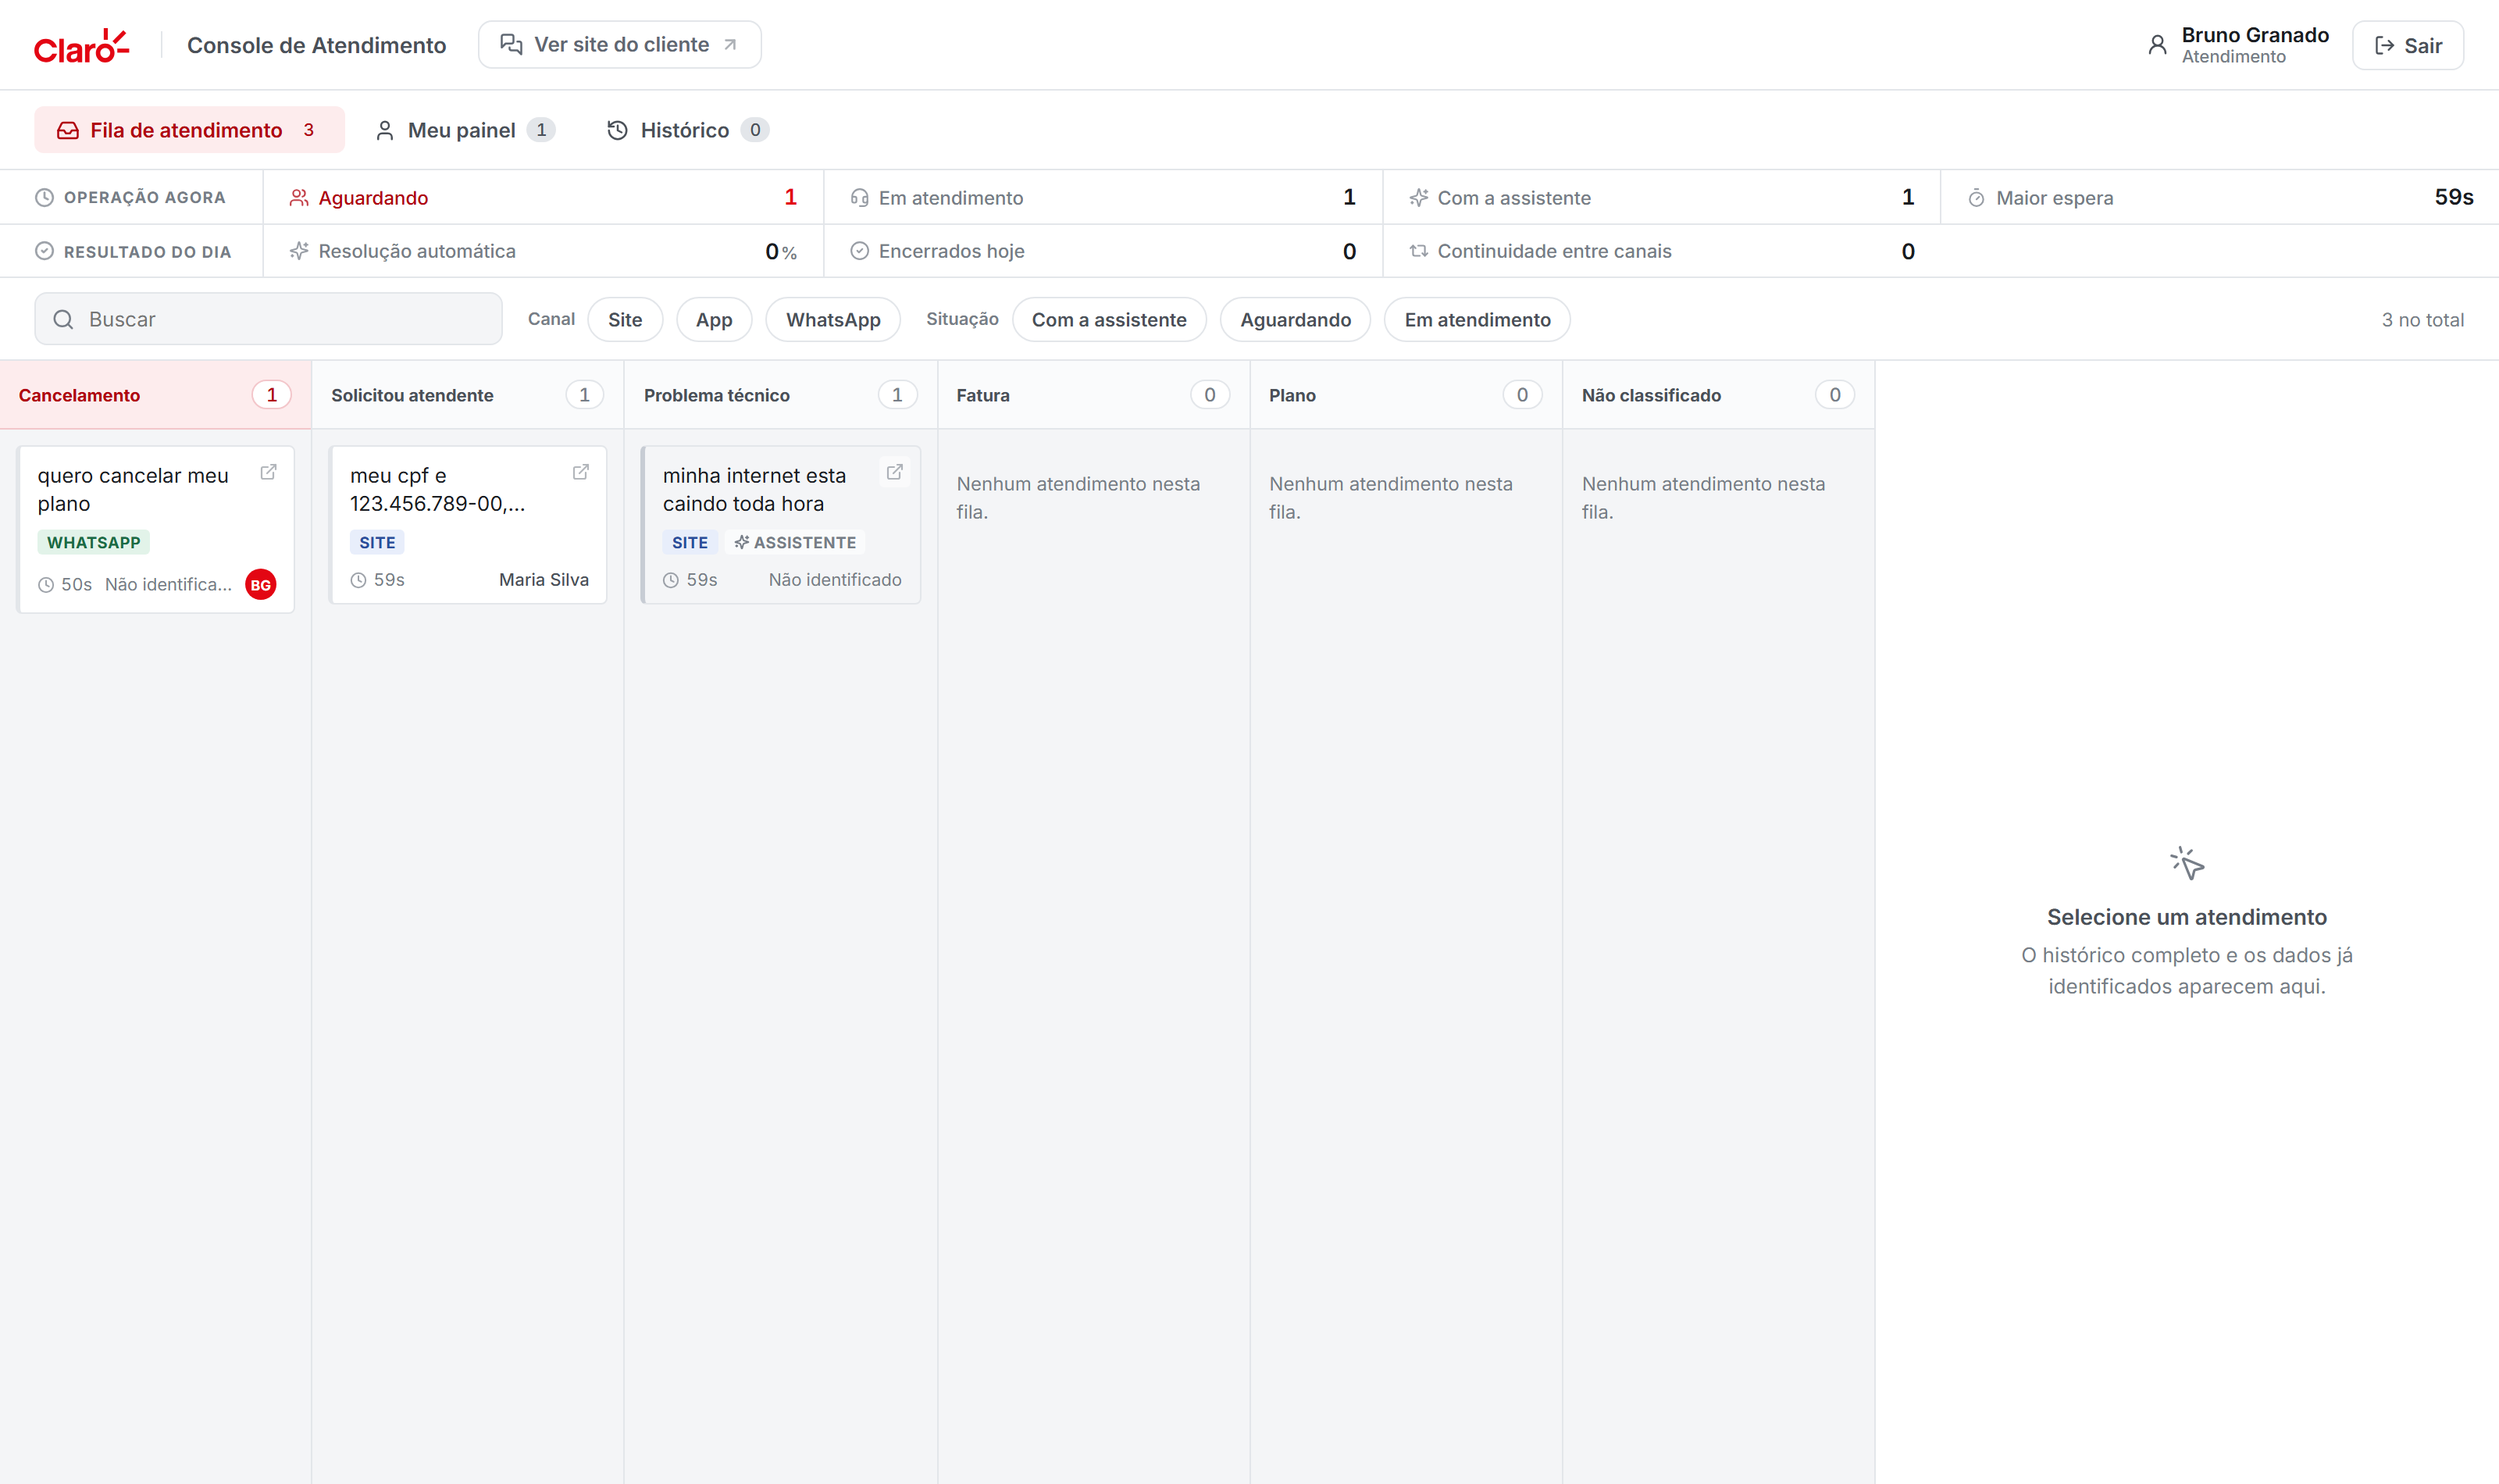
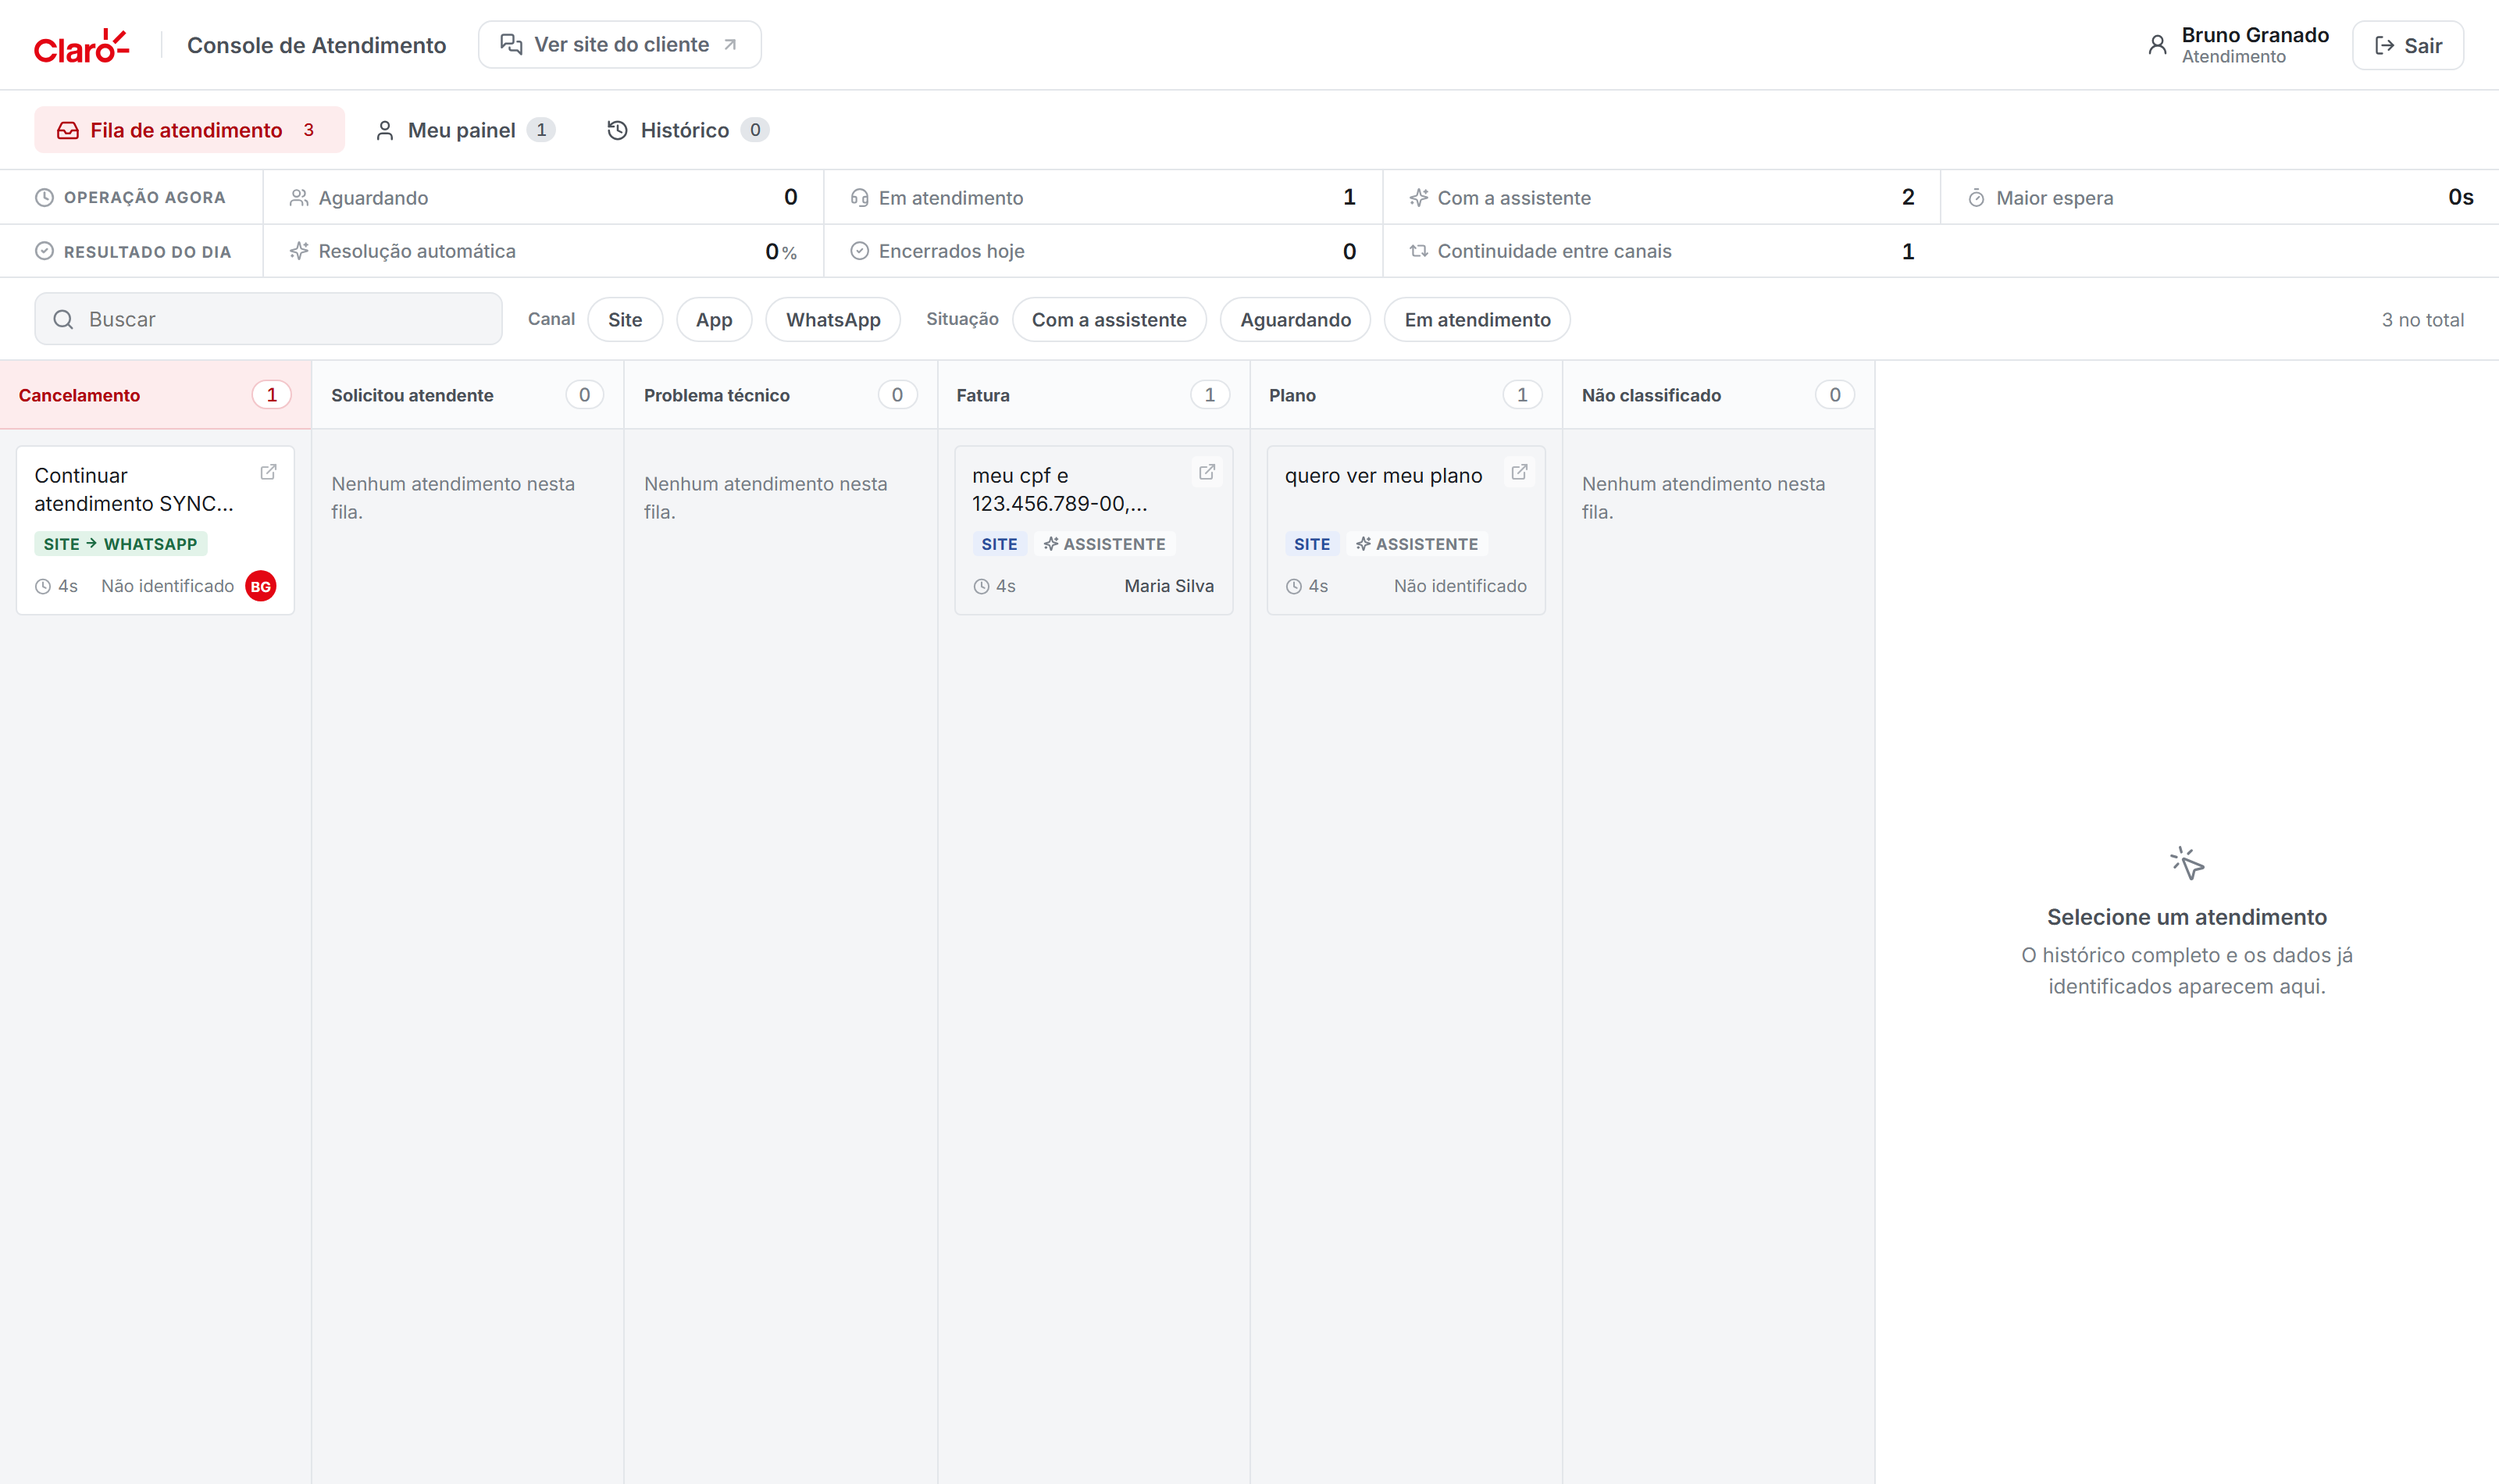
polish: flat white cards of equal height
- dropped the 3px left border and the wait bar that lived inside it. Urgency
  still reads on the card: the wait turns red and carries a clock.
- every card is white. State lives in the label, not the background; a
  different background per state made the board look like it held two
  different kinds of card.
- equal heights. The summary always occupies two lines even with one line of
  text, and the footer has a floor the height of the avatar disc. Cards of
  different heights in one column misalign every footer below them.
- channel and origin merged into one label, 'SITE → WHATSAPP'. Two channel
  labels wrapped to a second line and grew the card only in some cases.

And a content bug that only surfaced once the message became the title: the
handoff code is control text, not a request. After a channel switch every
card on the board read 'Continuar atendimento SYNC-…'. The queue now skips
it and takes the last real request.

diff --git a/apps/web-admin/src/screens/Board.tsx b/apps/web-admin/src/screens/Board.tsx
@@ -1,5 +1,5 @@
-import { Clock, ExternalLink, Sparkles } from 'lucide-react'
-import { CHANNEL_LABELS, formatWait, INTENT_COLUMNS, type QueueItem, waitHeat } from '../api.js'
+import { ArrowRight, Clock, ExternalLink, Sparkles } from 'lucide-react'
+import { CHANNEL_LABELS, formatWait, INTENT_COLUMNS, type QueueItem } from '../api.js'
 import { ticketHref } from '../route.js'
 
 export type BoardProps = {
@@ -35,12 +35,11 @@ function Card({
   selected: boolean
   onSelect: () => void
 }) {
-  const calor = waitHeat(item.waitingSeconds)
-
   // Conversa da assistente não está esperando uma pessoa, então não fica
   // vermelha por tempo: o cronômetro ali mediria a coisa errada.
   const comAssistente = item.status === 'BOT'
   const urgente = !comAssistente && item.waitingSeconds >= URGENTE_SEGUNDOS
+  const cruzouCanal = item.originChannel !== item.channel
 
   // Sem mensagem do cliente o cartão ficaria sem título. Nesse caso o nome
   // assume o lugar, que é a única coisa que resta para distinguir a linha.
@@ -52,16 +51,9 @@ function Card({
        atendimento inteiro em outra aba, para trabalhar sem perder a fila de
        vista. Um link dentro de um botão seria HTML inválido, então os dois são
        irmãos dentro do cartão. */
-    <article
-      className={`card ${selected ? 'is-selected' : ''} ${comAssistente ? 'card--bot' : ''}`}
-    >
-      {/* A barra cresce com a espera e vira vermelha ao passar de cinco minutos. */}
-      <span
-        className={`card__spine ${urgente ? 'card__spine--urgent' : ''}`}
-        style={{ height: `${comAssistente ? 6 : Math.max(calor * 100, 6)}%` }}
-        aria-hidden="true"
-      />
-
+    /* Todos brancos. A situacao vive na etiqueta, nao no fundo: fundo diferente
+       por estado fazia o quadro parecer ter dois tipos de cartao. */
+    <article className={`card ${selected ? 'is-selected' : ''}`}>
       <a
         className="card__expand"
         href={ticketHref(item.id)}
@@ -78,16 +70,26 @@ function Card({
 
         <div className="card__labels">
           {/* Cor por canal, como as etiquetas de um quadro de tarefas: e o que
-              deixa ver de longe que uma coluna inteira veio do WhatsApp. */}
-          <span className={`tagline tagline--${item.channel.toLowerCase()}`}>
+              deixa ver de longe que uma coluna inteira veio do WhatsApp.
+              Quando a conversa atravessou de canal, a origem entra na mesma
+              etiqueta em vez de abrir uma segunda: duas etiquetas de canal
+              quebravam a linha e faziam o cartao crescer so em alguns casos. */}
+          <span
+            className={`tagline tagline--${item.channel.toLowerCase()}`}
+            title={
+              cruzouCanal
+                ? `Comecou em ${CHANNEL_LABELS[item.originChannel]} e continua em ${CHANNEL_LABELS[item.channel]}`
+                : undefined
+            }
+          >
+            {cruzouCanal && (
+              <>
+                {CHANNEL_LABELS[item.originChannel]}
+                <ArrowRight size={9} strokeWidth={3} aria-hidden="true" />
+              </>
+            )}
             {CHANNEL_LABELS[item.channel]}
           </span>
-
-          {item.originChannel !== item.channel && (
-            <span className="tagline" title="Atendimento iniciado em outro canal">
-              origem {CHANNEL_LABELS[item.originChannel]}
-            </span>
-          )}
 
           {comAssistente && (
             <span className="tagline tagline--bot">

diff --git a/apps/web-admin/src/console.css b/apps/web-admin/src/console.css
@@ -533,7 +533,6 @@ button {
   position: relative;
   background: var(--panel);
   border: 1px solid var(--line);
-  border-left: 3px solid var(--line);
   border-radius: 4px;
   overflow: hidden;
   transition:
@@ -592,38 +591,22 @@ button {
   box-shadow: 0 1px 3px rgb(26 29 33 / 0.1);
 }
 
-/* A conversa da IA fica visivel sem competir com quem espera uma pessoa. */
-.card--bot {
-  border-left-color: #c7ccd4;
-  background: var(--bg);
-}
-
 .card.is-selected {
   border-color: var(--claro-red);
   box-shadow: 0 0 0 1px var(--claro-red);
 }
 
-/* Barra que cresce e escurece com a espera. Não é etiqueta: é acúmulo que se
-   lê de canto de olho no quadro inteiro. */
-.card__spine {
-  position: absolute;
-  left: -3px;
-  bottom: 0;
-  width: 3px;
-  background: var(--amber);
-}
-
-.card__spine--urgent {
-  background: var(--claro-red);
-}
-
 /* O pedido do cliente e o titulo do cartao, como o resumo de uma tarefa num
    quadro. Duas linhas no maximo: a terceira ja e leitura, nao varredura. */
+/* Sempre duas linhas de altura, mesmo com uma linha de texto.
+   Cartoes de alturas diferentes na mesma coluna desalinham o rodape de um para
+   o outro e o olho perde o eixo ao descer a lista. */
 .card__summary {
   margin: 0;
   padding-right: 22px;
   font-size: 13px;
   line-height: 1.4;
+  min-height: 2.8em;
   color: var(--ink);
   display: -webkit-box;
   -webkit-line-clamp: 2;
@@ -631,11 +614,14 @@ button {
   overflow: hidden;
 }
 
+/* Uma linha so. Sao no maximo duas etiquetas, canal e assistente, porque a
+   origem entrou dentro da etiqueta de canal em vez de abrir a propria. */
 .card__labels {
   display: flex;
-  flex-wrap: wrap;
+  align-items: center;
   gap: 4px;
   margin-top: 8px;
+  min-height: 17px;
 }
 
 /* Etiqueta chapada, sem borda e sem raio grande: e rotulo, nao botao. */
@@ -643,6 +629,7 @@ button {
   display: inline-flex;
   align-items: center;
   gap: 3px;
+  min-width: 0;
   padding: 2px 6px;
   border-radius: 3px;
   background: var(--panel-2);
@@ -674,11 +661,14 @@ button {
   color: var(--muted);
 }
 
+/* Piso na altura do disco: sem ele, o cartao sem responsavel ficava alguns
+   pixels mais baixo que o vizinho. */
 .card__foot {
   display: flex;
   align-items: center;
   gap: 7px;
   margin-top: 9px;
+  min-height: 20px;
   font-size: 11px;
   color: var(--muted);
 }

diff --git a/apps/api/src/admin/admin.service.ts b/apps/api/src/admin/admin.service.ts
@@ -2,6 +2,7 @@ import type { Channel, ConversationStatus, Intent, Result } from '@sync/contract
 import { err, ok } from '@sync/contracts'
 import type { PrismaClient } from '@sync/db'
 import type { ICustomerRepository, IMessageRepository } from '../context/index.js'
+import { extractHandoffCode } from '../conversation/handoff.use-case.js'
 import type { OfferInsightService } from '../insights/offer-insight.service.js'
 
 export type QueueFilters = {
@@ -88,6 +89,18 @@ export function maskCpf(cpf: string): string {
  */
 const PRECISAM_DE_GENTE: ConversationStatus[] = ['BOT', 'WAITING_HUMAN', 'WITH_HUMAN']
 
+/**
+ * A ultima coisa que o cliente pediu, ignorando o codigo de continuidade.
+ *
+ * O texto do handoff e controle: e o que o link preenche para amarrar as duas
+ * conversas. Como titulo do cartao ele nao diz nada sobre o problema, e depois
+ * de uma migracao de canal era o que aparecia em todos.
+ */
+function ultimoPedido(mensagens: { text: string }[]): string | null {
+  const pedido = mensagens.find((m) => extractHandoffCode(m.text) === null)
+  return pedido?.text ?? mensagens[0]?.text ?? null
+}
+
 /** Quem ainda nao tem dono. O atendente pode entrar nos dois. */
 const SEM_DONO: ConversationStatus[] = ['BOT', 'WAITING_HUMAN']
 
@@ -113,10 +126,14 @@ export class AdminService {
         agent: true,
         // Só mensagem do cliente: o card precisa mostrar o problema, não a
         // última fala do bot, que é sempre a mesma frase de escalonamento.
+        //
+        // Três, e não uma: a última pode ser o código de continuidade, que é
+        // controle e não pedido. Depois de um handoff, todo card do quadro
+        // passava a se chamar "Continuar atendimento SYNC-…".
         messages: {
           where: { sender: 'CUSTOMER' },
           orderBy: { createdAt: 'desc' },
-          take: 1,
+          take: 3,
         },
       },
       orderBy: { updatedAt: 'asc' },
@@ -132,7 +149,7 @@ export class AdminService {
       status: c.status,
       serviceLabel: c.service?.label ?? null,
       waitingSeconds: Math.max(0, Math.floor((now.getTime() - c.updatedAt.getTime()) / 1000)),
-      lastMessage: c.messages[0]?.text ?? null,
+      lastMessage: ultimoPedido(c.messages),
       assignedAgentName: c.agent?.name ?? null,
     }))
   }

diff --git a/apps/api/src/admin/__tests__/admin.service.test.ts b/apps/api/src/admin/__tests__/admin.service.test.ts
@@ -228,3 +228,45 @@ test('o detalhe diz de quem é o atendimento, para a interface não mentir', asy
   const r = await admin.detail(c.id)
   expect(r.success && r.data.assignedAgentId).toBe(bruno.id)
 })
+
+test('o titulo do card ignora o codigo de continuidade', async () => {
+  // O texto do handoff e controle, nao pedido: e o que o link preenche para
+  // amarrar as duas conversas. Depois de uma migracao de canal, todo card do
+  // quadro passava a se chamar "Continuar atendimento SYNC-...".
+  const c = await conversaEsperando('PROBLEMA_TECNICO')
+
+  await mensagens.append({
+    conversationId: c.id,
+    channel: 'SITE',
+    direction: 'INBOUND',
+    sender: 'CUSTOMER',
+    text: 'minha internet esta caindo toda hora',
+  })
+  await mensagens.append({
+    conversationId: c.id,
+    channel: 'WHATSAPP',
+    direction: 'INBOUND',
+    sender: 'CUSTOMER',
+    text: 'Continuar atendimento SYNC-ABCDEFGHJKMNPQRS',
+  })
+
+  const [item] = await admin.queue({})
+  expect(item?.lastMessage).toBe('minha internet esta caindo toda hora')
+})
+
+test('quando so ha o codigo, ele aparece em vez de nada', async () => {
+  // Cartao sem titulo nenhum seria pior: sobra um retangulo vazio na coluna.
+  const c = await conversaEsperando('PROBLEMA_TECNICO')
+  await prisma.message.deleteMany({ where: { conversationId: c.id } })
+
+  await mensagens.append({
+    conversationId: c.id,
+    channel: 'WHATSAPP',
+    direction: 'INBOUND',
+    sender: 'CUSTOMER',
+    text: 'Continuar atendimento SYNC-ABCDEFGHJKMNPQRS',
+  })
+
+  const [item] = await admin.queue({})
+  expect(item?.lastMessage).toContain('SYNC-')
+})

diff --git a/apps/web-admin/src/api.ts b/apps/web-admin/src/api.ts
@@ -235,11 +235,3 @@ export function formatWait(seconds: number): string {
   if (minutos < 60) return `${minutos}min`
   return `${Math.floor(minutos / 60)}h${String(minutos % 60).padStart(2, '0')}`
 }
-
-/**
- * Grau de urgência pela espera, de 0 a 1. Alimenta a barra na borda do card.
- * Satura em 10 minutos: além disso a diferença já não muda o que o atendente faz.
- */
-export function waitHeat(seconds: number): number {
-  return Math.min(seconds / 600, 1)
-}
